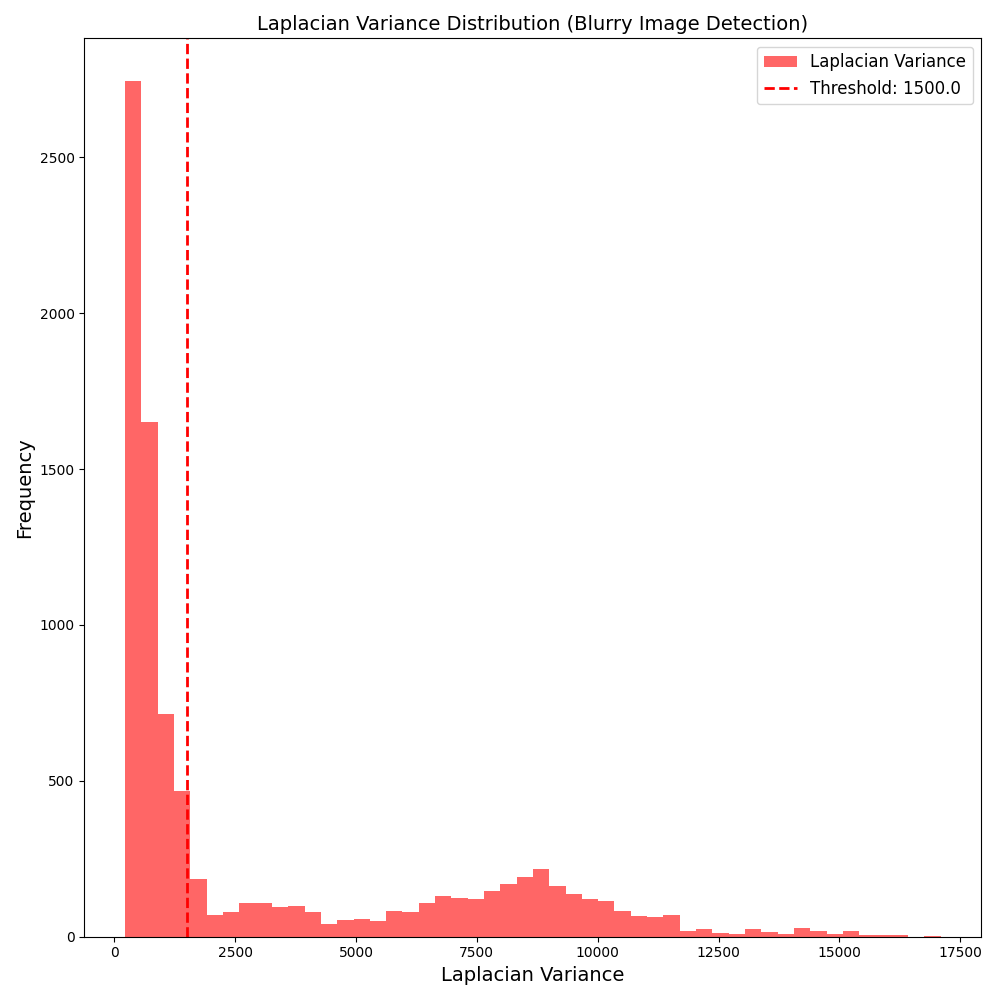
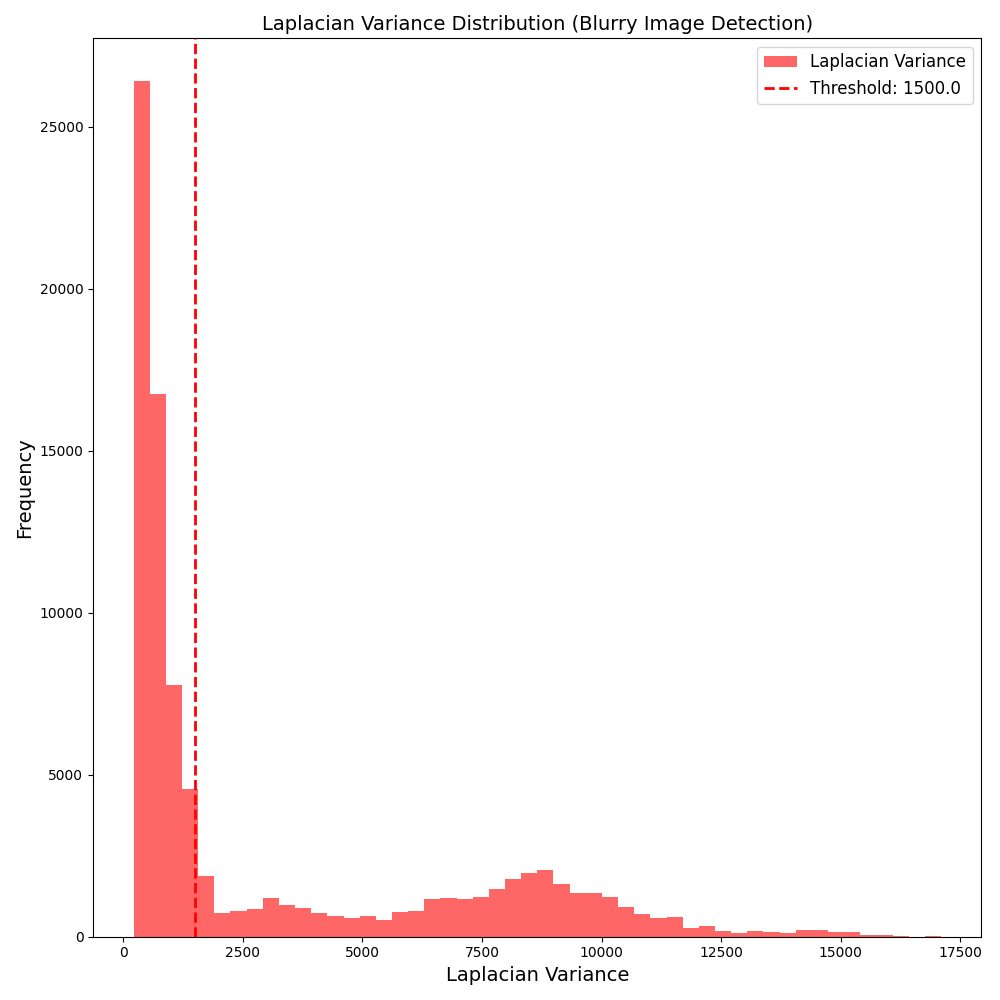
Update run to take steps param and produce new pictures

diff --git a/dev_tools/data_utils/dataset_evaluation.py b/dev_tools/data_utils/dataset_evaluation.py
@@ -267,7 +267,7 @@ class DigitDatasetEvaluator:
 
         self.log(f"✅ [Step 3 Complete] Sample image grid saved as '{output_path}'\n")
 
-    def step_4_intensity_histograms(self, sample_size: int = 1000) -> Dict[str, List[int]]:
+    def step_4_intensity_histograms(self, sample_size: int = 10000) -> Dict[str, List[int]]:
         """
         Plots histograms of pixel intensity values for clean, distorted, and other images.
 
@@ -388,7 +388,7 @@ class DigitDatasetEvaluator:
         self.log("✅ [Step 5 Complete] Corrupt image scan finished.\n")
         return corrupt
 
-    def step_6_digit_centering_heatmap(self, samples_per_digit: int = 100) -> None:
+    def step_6_digit_centering_heatmap(self, samples_per_digit: int = 10000) -> None:
         """
         Creates a heatmap to visualize the average centering of digits across the dataset.
 
@@ -820,7 +820,7 @@ class DigitDatasetEvaluator:
             rows.append(cv2.hconcat(row_imgs))
         return cv2.vconcat(rows)
 
-    def step_11_local_feature_consistency(self, samples_per_digit: int = 500) -> Tuple[
+    def step_11_local_feature_consistency(self, samples_per_digit: int = 10000) -> Tuple[
         List[Dict[str, Union[str, float, int]]], List[Dict[str, Union[str, float, int]]]]:
         """
         Analyzes local feature consistency across digits using both Sobel edges and ORB keypoints.
@@ -1679,8 +1679,8 @@ class DigitDatasetEvaluator:
 
 
 if __name__ == "__main__":
-    evaluator = DigitDatasetEvaluator(dataset_path="test_dataset")
-    evaluator.run_full_evaluation("5, 7, 9")
+    evaluator = DigitDatasetEvaluator(dataset_path="digit_dataset")
+    evaluator.run_full_evaluation("all")
 
 
 
